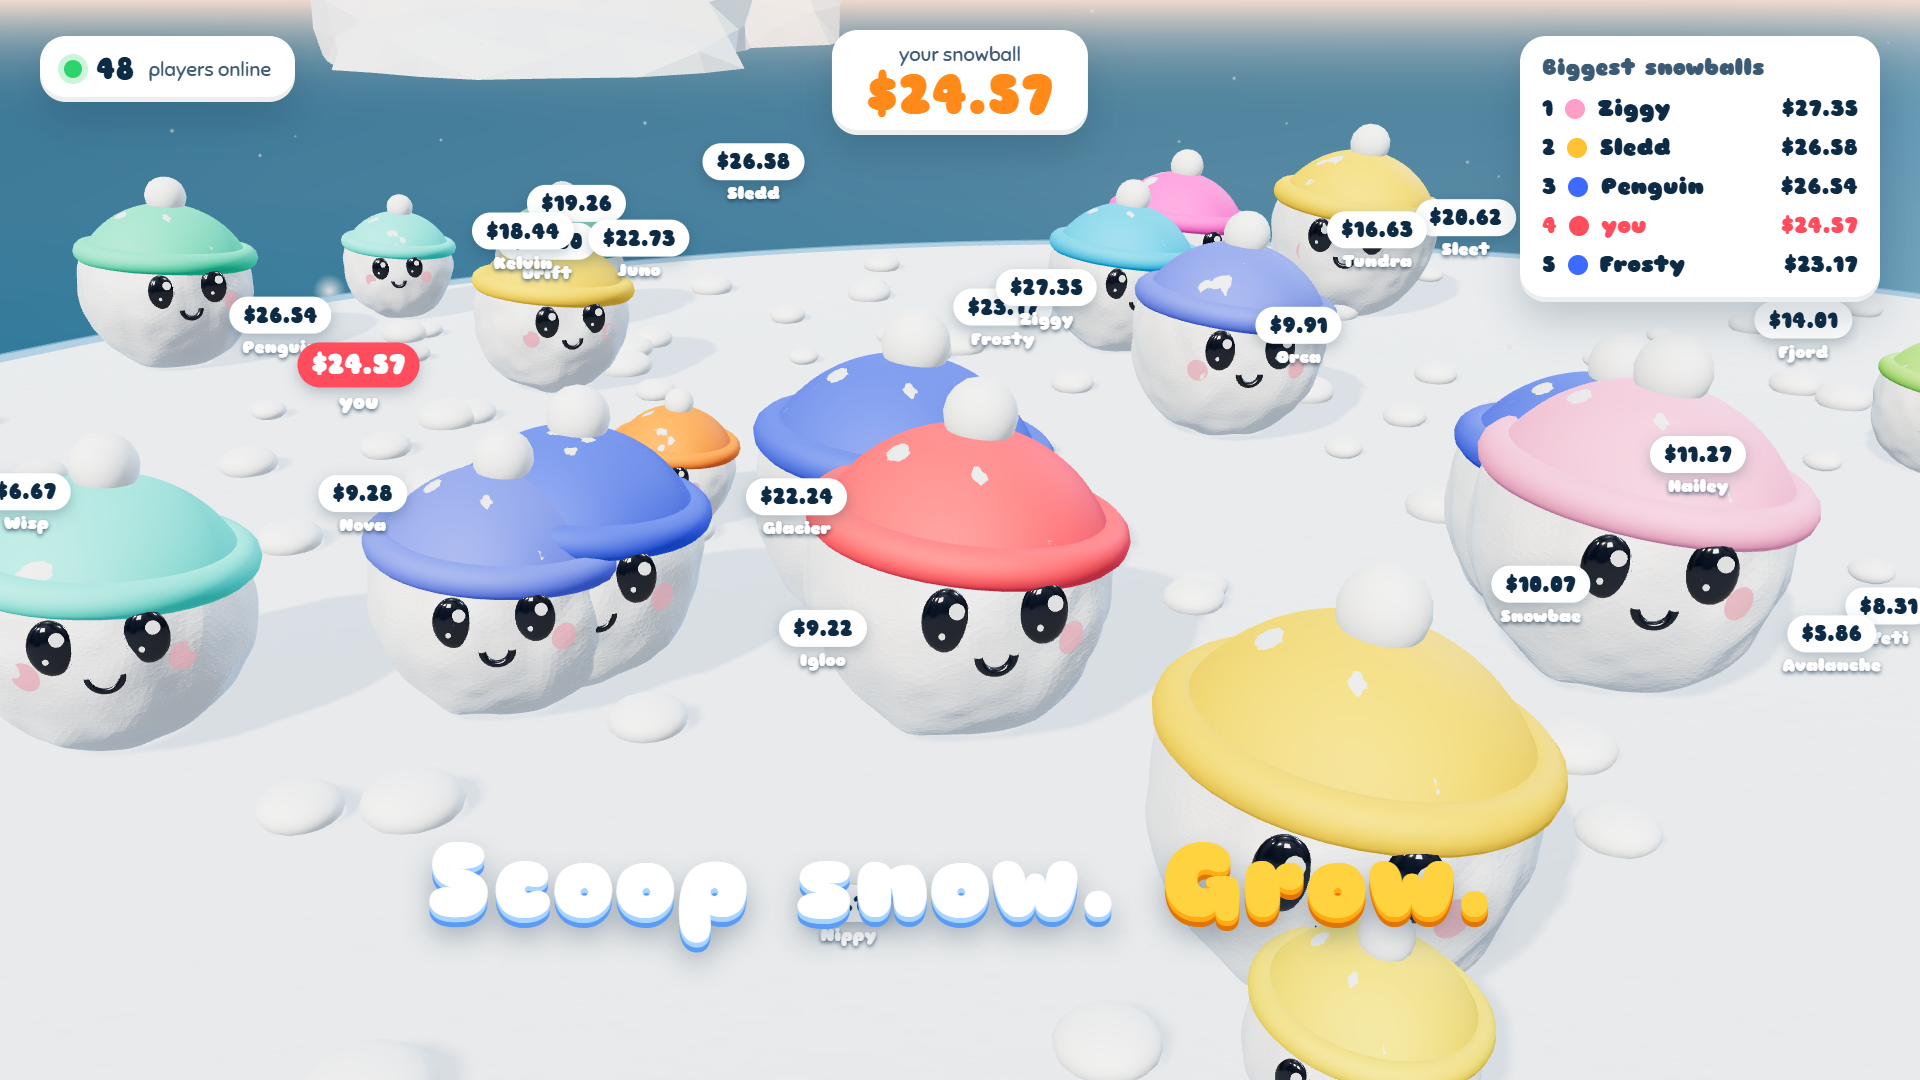
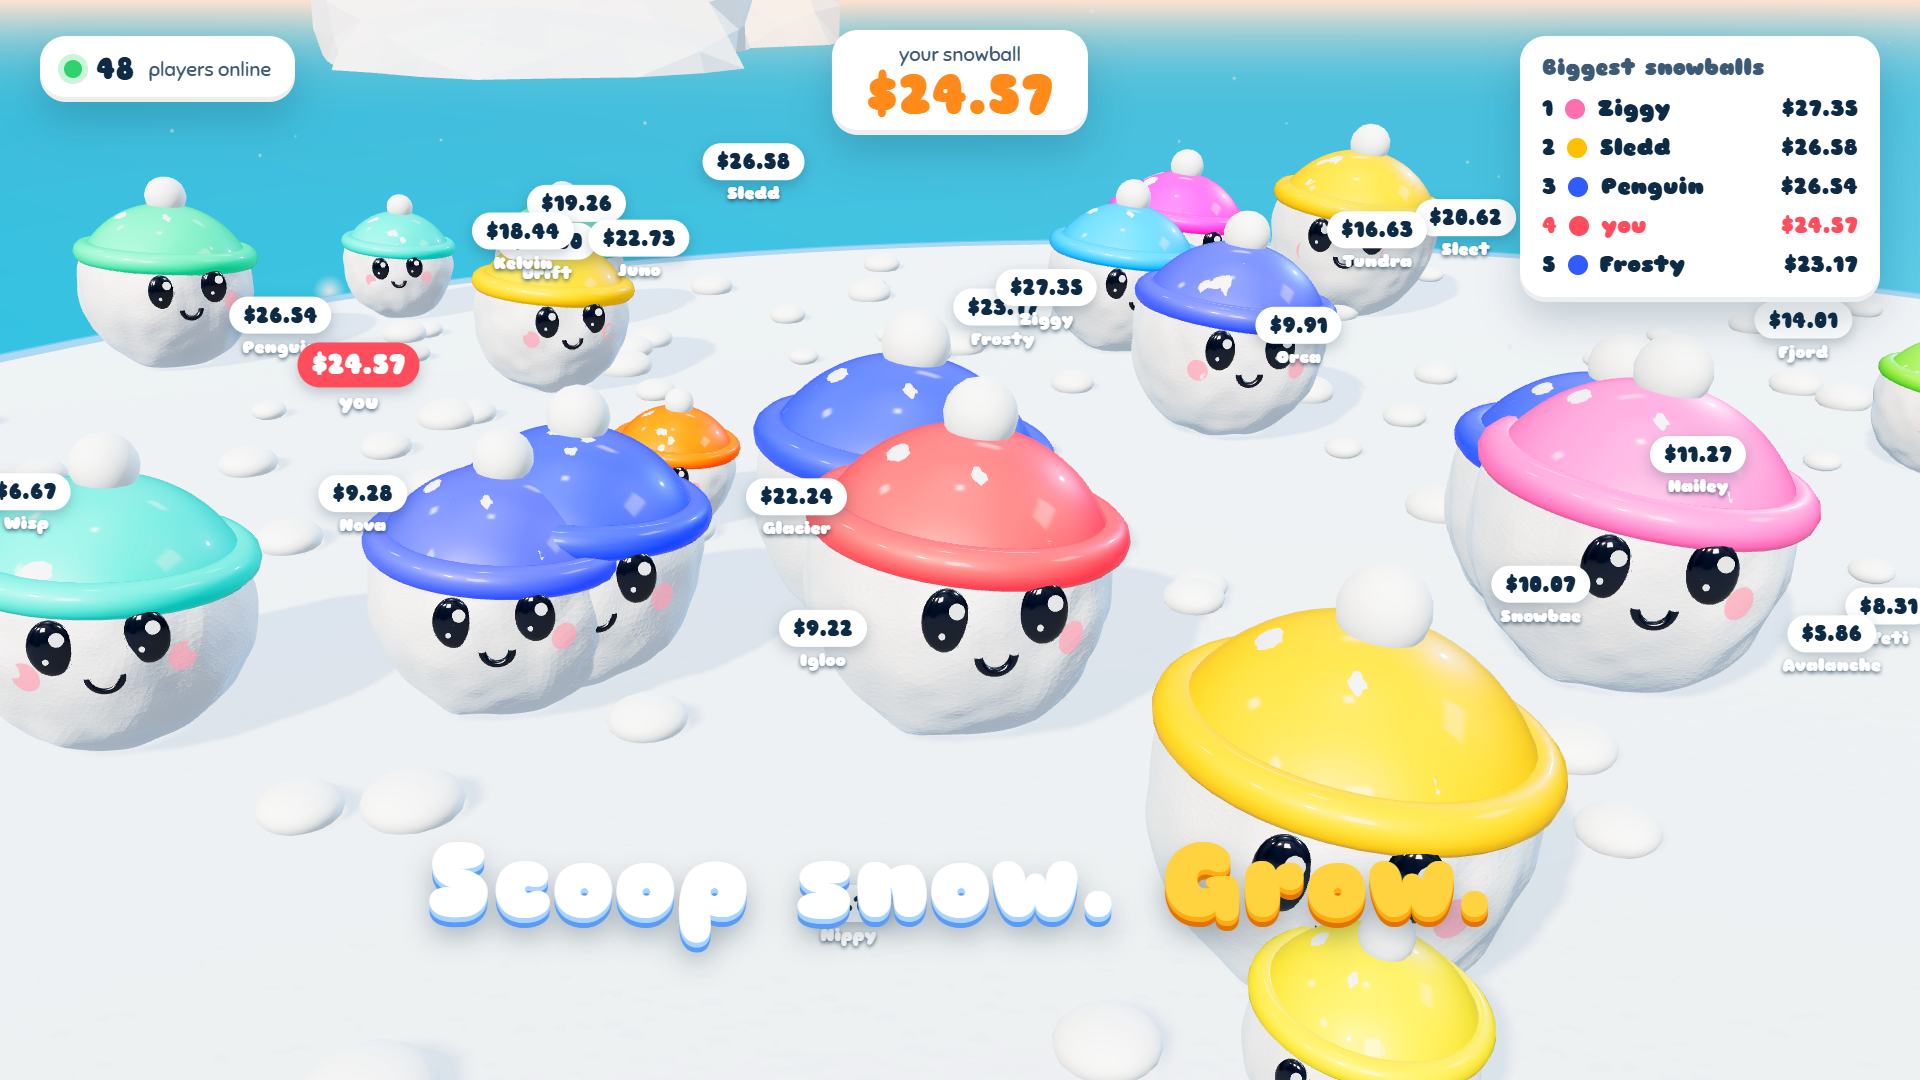
Snowfight film: more vivid colours

diff --git a/video/film.html b/video/film.html
@@ -4,7 +4,7 @@
 <style>
 /* Snowfight showcase, 1920x1080, deterministic: window.renderAt(t) */
 *{box-sizing:border-box;margin:0}html,body{width:1920px;height:1080px;overflow:hidden;background:#cfe9ff;font-family:Sniglet,sans-serif;color:#0d2b45}
-#cv{position:absolute;inset:0;width:1920px;height:1080px}#ui{position:absolute;inset:0;pointer-events:none}
+#cv{position:absolute;inset:0;width:1920px;height:1080px;filter:saturate(1.4) contrast(1.06)}#ui{position:absolute;inset:0;pointer-events:none}
 .tg{position:absolute;left:0;top:0;display:flex;flex-direction:column;align-items:center;gap:3px}
 .tg b{background:#fff;border-radius:999px;padding:5px 14px;font:800 22px Sniglet;box-shadow:0 5px 14px rgba(13,43,69,.25)}.tg span{font:800 17px Sniglet;color:#fff;text-shadow:0 2px 4px rgba(13,43,69,.7)}
 .tg.me b{background:#ff4d5e;color:#fff;font-size:28px}.tg.me span{font-size:20px}
@@ -42,14 +42,14 @@ const R = new THREE.WebGLRenderer({ canvas: document.getElementById('cv'), antia
 R.toneMapping = THREE.ACESFilmicToneMapping; R.toneMappingExposure = .92; R.shadowMap.enabled = true; R.shadowMap.type = THREE.PCFSoftShadowMap;
 const sc = new THREE.Scene(), cam = new THREE.PerspectiveCamera(34, W / H, .1, 400);
 sc.environment = new THREE.PMREMGenerator(R).fromScene(new RoomEnvironment(), .02).texture; sc.environmentIntensity = .5;
-{ const c = document.createElement('canvas'); c.width = 16; c.height = 512; const x = c.getContext('2d'), g = x.createLinearGradient(0, 0, 0, 512); g.addColorStop(0, '#6fb7ff'); g.addColorStop(.45, '#b9dcff'); g.addColorStop(.62, '#ffe6d6'); g.addColorStop(1, '#ffd2bd'); x.fillStyle = g; x.fillRect(0, 0, 16, 512); const t = new THREE.CanvasTexture(c); t.colorSpace = THREE.SRGBColorSpace; sc.background = t; }
+{ const c = document.createElement('canvas'); c.width = 16; c.height = 512; const x = c.getContext('2d'), g = x.createLinearGradient(0, 0, 0, 512); g.addColorStop(0, '#3f9bff'); g.addColorStop(.45, '#a8d6ff'); g.addColorStop(.62, '#ffe6d6'); g.addColorStop(1, '#ffd2bd'); x.fillStyle = g; x.fillRect(0, 0, 16, 512); const t = new THREE.CanvasTexture(c); t.colorSpace = THREE.SRGBColorSpace; sc.background = t; }
 sc.fog = new THREE.Fog(0xffe2d2, 80, 200);
 sc.add(new THREE.HemisphereLight(0xd6ebff, 0x3f7ea6, .85));
 const sun = new THREE.DirectionalLight(0xffecd6, 3); sun.position.set(-20, 30, 16); sun.castShadow = true; sun.shadow.mapSize.set(2048, 2048); sun.shadow.radius = 5; sun.shadow.bias = -.0005;
 Object.assign(sun.shadow.camera, { left: -34, right: 34, top: 34, bottom: -34, near: 1, far: 100 }); sc.add(sun, sun.target); const rim = new THREE.DirectionalLight(0x9fd2ff, 1.2); rim.position.set(14, 8, -18); sc.add(rim);
 const grain = () => { const c = document.createElement('canvas'); c.width = c.height = 256; const x = c.getContext('2d'); x.fillStyle = '#808080'; x.fillRect(0, 0, 256, 256); for (let i = 0; i < 4000; i++) { const v = 90 + rnd() * 165 | 0; x.fillStyle = `rgb(${v},${v},${v})`; x.beginPath(); x.arc(rnd() * 256, rnd() * 256, rnd() * 1.6 + .3, 0, 7); x.fill(); } const t = new THREE.CanvasTexture(c); t.wrapS = t.wrapT = THREE.RepeatWrapping; t.repeat.set(4, 4); return t; };
 const bump = grain();
-const sea = new THREE.Mesh(new THREE.PlaneGeometry(700, 700), new THREE.MeshPhysicalMaterial({ color: 0x0a5c7a, roughness: .38, clearcoat: .2, envMapIntensity: .25 })); sea.rotation.x = -Math.PI / 2; sea.position.y = -1.4; sea.receiveShadow = true; sc.add(sea);
+const sea = new THREE.Mesh(new THREE.PlaneGeometry(700, 700), new THREE.MeshPhysicalMaterial({ color: 0x0796b8, roughness: .32, clearcoat: .2, envMapIntensity: .25 })); sea.rotation.x = -Math.PI / 2; sea.position.y = -1.4; sea.receiveShadow = true; sc.add(sea);
 const iceM = new THREE.MeshPhysicalMaterial({ color: 0xd9efff, roughness: .55, sheen: 1, sheenColor: new THREE.Color(0x9fd6ff), flatShading: true });
 for (let i = 0; i < 10; i++) { const g = new THREE.IcosahedronGeometry(1, 3), p = g.attributes.position; for (let k = 0; k < p.count; k++) { const v = new THREE.Vector3().fromBufferAttribute(p, k); v.multiplyScalar(.7 + noise3(v.x * 1.6 + i, v.y * 1.6, v.z * 1.6) * .7); if (v.y < 0) v.y *= .2; p.setXYZ(k, v.x, v.y, v.z); } g.computeVertexNormals();
   const m = new THREE.Mesh(g, iceM), a = i / 10 * Math.PI * 2 + rnd(), d = 95 + rnd() * 40; m.scale.set(7 + rnd() * 9, 5 + rnd() * 7, 7 + rnd() * 7); m.position.set(Math.cos(a) * d, -1.4, Math.sin(a) * d); sc.add(m); }
@@ -73,13 +73,13 @@ const bodyM = new THREE.MeshPhysicalMaterial({ color: 0xffffff, vertexColors: tr
 const eyeM = new THREE.MeshPhysicalMaterial({ color: 0x0b1626, roughness: .05, clearcoat: 1 }), shineM = new THREE.MeshBasicMaterial({ color: 0xffffff }), blushM = new THREE.MeshBasicMaterial({ color: 0xff8fa3, transparent: true, opacity: .6 });
 const eyeG = new THREE.SphereGeometry(.15, 20, 14), shG = new THREE.SphereGeometry(.05, 10, 8), sh2G = new THREE.SphereGeometry(.022, 8, 6), blG = new THREE.CircleGeometry(.11, 16), mouthG = new THREE.TorusGeometry(.11, .03, 8, 20, Math.PI), oG = new THREE.SphereGeometry(.1, 16, 12);
 const capG = new THREE.SphereGeometry(1.03, 40, 20, 0, Math.PI * 2, 0, Math.PI * .36), bandG = new THREE.TorusGeometry(.92, .13, 12, 40), pomG = new THREE.IcosahedronGeometry(.24, 2);
-const hatMs = {}; const hatM = (c) => hatMs[c] || (hatMs[c] = new THREE.MeshPhysicalMaterial({ color: c, roughness: .65, sheen: 1, sheenColor: new THREE.Color(c) }));
+const hatMs = {}; const hatM = (c) => hatMs[c] || (hatMs[c] = new THREE.MeshPhysicalMaterial({ color: c, roughness: .45, clearcoat: .4, emissive: c, emissiveIntensity: .12 }));
 function ball(col) { const g = new THREE.Group(), spin = new THREE.Group(), body = new THREE.Mesh(bodyG, bodyM); body.castShadow = true; spin.add(body);
   const F = new THREE.Group(); for (const s of [-1, 1]) { const e = new THREE.Mesh(eyeG, eyeM); e.scale.set(1, 1.35, .5); e.position.set(s * .3, .14, .96); const h = new THREE.Mesh(shG, shineM); h.position.set(s * .3 + .05, .22, 1.03); const h2 = new THREE.Mesh(sh2G, shineM); h2.position.set(s * .3 - .04, .07, 1.03); const b = new THREE.Mesh(blG, blushM); b.position.set(s * .5, -.08, .87); b.lookAt(s * 3, -.4, 5); F.add(e, h, h2, b); }
   const smile = new THREE.Mesh(mouthG, eyeM); smile.rotation.z = Math.PI; smile.position.set(0, -.1, .99); const oh = new THREE.Mesh(oG, eyeM); oh.scale.set(1, 1.3, .5); oh.position.set(0, -.2, .97); oh.visible = false; F.add(smile, oh);
   const hm = hatM(col), hat = new THREE.Group(), cap = new THREE.Mesh(capG, hm), band = new THREE.Mesh(bandG, hm), pom = new THREE.Mesh(pomG, pileM); band.rotation.x = Math.PI / 2; band.position.y = .42; pom.position.y = 1.12; cap.castShadow = true; hat.add(cap, band, pom); hat.rotation.z = -.12;
   g.add(spin, F, hat); g.userData = { spin, smile, oh }; sc.add(g); return g; }
-const COLS = ['#2fd3a0', '#ffc233', '#3d6bff', '#ff7a2f', '#b45cff', '#00b7ff', '#ff5fc8', '#7ed957', '#ffd23f', '#5a7bff', '#ff9ec7', '#3fe0d0'];
+const COLS = ['#00e0a0', '#ffc000', '#2f5bff', '#ff6a00', '#a63dff', '#00aaff', '#ff3dbb', '#5fe03a', '#ffe000', '#4060ff', '#ff6fae', '#00d8c8'];
 const NAMES = ['Mochi', 'Blizz', 'Frosty', 'Slushie', 'Pebble', 'Igloo', 'Flurry', 'Yeti', 'Nippy', 'Drift', 'Sleet', 'Chill', 'Powder', 'Glacier', 'Brrr', 'Puffin', 'Snowbae', 'Hailey', 'Iceman', 'Tundra', 'Avalanche', 'Mittens', 'Krill', 'Polar', 'Cocoa', 'Sledd', 'Penguin', 'Wisp', 'Fjord', 'Kelvin', 'Nova', 'Orca', 'Biscuit', 'Juno', 'Ziggy', 'Lumi', 'Tofu', 'Dash', 'Frost', 'Pip', 'Maple', 'Sora', 'Rex', 'Echo', 'Gus', 'Yuki', 'Bram'];
 // every player: a deterministic wander with a join time; a few have scripted fates
 const P = [];
